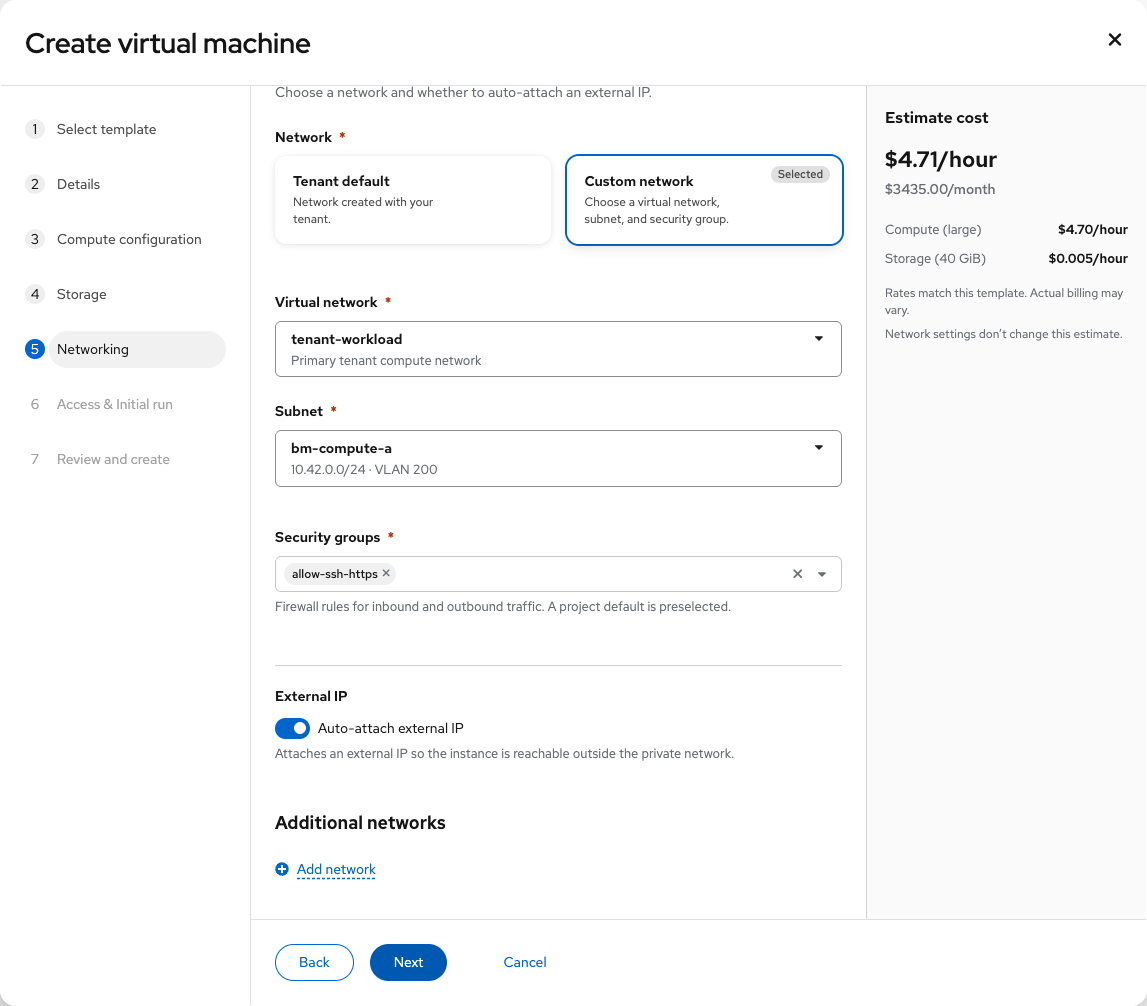
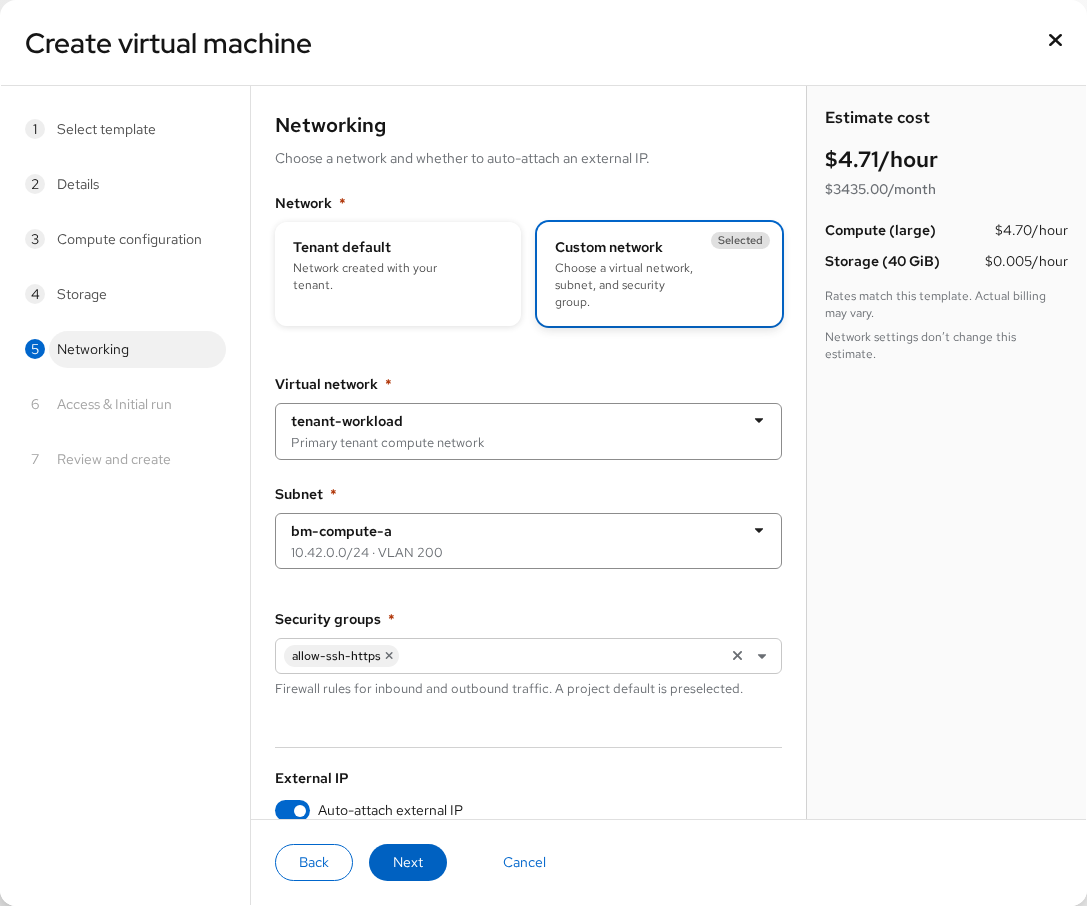
OSAC-5652: add VMaaS networking UI design addendum
Map the UX design to the osac-ui implementation: wizard networking
step, VM details entries, and a full ComputeInstance spec/status
field-mapping table. VM create errors show in the wizard footer;
post-create status visibility is out of scope and links to the
OSAC-6578 outcome work (OSAC-6008 PRD, OSAC-7158 PR, OSAC-7681
stepper).

Assisted-by: Claude Code <noreply@anthropic.com>

diff --git a/enhancements/OSAC-1435-vmaas-networking/ui-design.md b/enhancements/OSAC-1435-vmaas-networking/ui-design.md
@@ -1,0 +1,80 @@
+---
+title: vmaas-networking-ui
+authors:
+  - yfrimanm@redhat.com
+creation-date: 2026-11-19
+last-updated: 2026-11-19
+tracking-link:
+  - https://redhat.atlassian.net/browse/OSAC-5652
+  - https://redhat.atlassian.net/browse/OSAC-1435
+see-also:
+  - "/enhancements/OSAC-1435-vmaas-networking/ux-design.md"
+  - "/enhancements/OSAC-1435-vmaas-networking/prd.md"
+  - "/enhancements/OSAC-1435-vmaas-networking/design.md"
+replaces:
+superseded-by:
+---
+
+# VMaaS Networking — UI Design Addendum
+
+This addendum maps the [UX design](ux-design.md) to the `osac-ui`
+implementation. It changes no UX decisions; it records where each screen
+lives and which API field each UI item reads or writes. [OSAC-5652;
+OSAC-1435 design §UX Alignment]
+
+## 1. Create VM wizard — Networking step
+
+Implemented in the existing VM create wizard's Networking step:
+
+- **Tenant default / Custom network** choice, the summarized default
+  (VirtualNetwork, Subnet, SecurityGroups), and the Custom pickers follow
+  the UX design.
+- **Auto-attach external IP** default and the network choice come from the
+  catalog item the VM is launched from; when the catalog item locks the
+  field, the toggle is disabled and the field is omitted from the request.
+- The network selection is immutable after create; the UI offers no edit
+  and directs the user to replace the VM.
+
+## 2. VM details page
+
+- **External IP** renders the attached ExternalIP as a read-only value.
+- **Networking** renders the resolved network fields as read-only entries.
+
+## 3. Field mapping
+
+| UI item | Screen | API field | Direction |
+|---|---|---|---|
+| Tenant default / Custom network choice | Wizard, Networking step | `ComputeInstance.spec.network_attachments` presence (omitted = tenant default) | write |
+| VirtualNetwork picker | Wizard, Networking step | `ComputeInstance.spec.network_attachments[0].subnet` → owner VirtualNetwork | write |
+| Subnet picker (name + IPv4 CIDR) | Wizard, Networking step | `ComputeInstance.spec.network_attachments[0].subnet` | write |
+| SecurityGroups picker | Wizard, Networking step | `ComputeInstance.spec.network_attachments[0].security_groups` | write |
+| Auto-attach external IP toggle | Wizard, Networking step | `ComputeInstance.spec.auto_external_ip_attachment` | write |
+| Second network attachment | Wizard, Networking step | rejected by the CLI before sending (max one entry) | — |
+| External IP value | VM details | attached ExternalIP from `ExternalIPAttachments` / `ExternalIPs` | read |
+| Networking — VirtualNetwork | VM details | `ComputeInstance.status.compute_network_attachment_statuses[0].subnet_ref` → owner VirtualNetwork | read |
+| Networking — Subnet | VM details | `ComputeInstance.status.compute_network_attachment_statuses[0].subnet_ref` | read |
+| Networking — SecurityGroups | VM details | `ComputeInstance.spec.network_attachments[0].security_groups` (resolved) | read |
+| Networking — IP address | VM details | `ComputeInstance.status.internal_ip_address` | read |
+
+## 4. Errors on VM create
+
+An error returned by the VM create call is shown in the wizard footer.
+
+## 5. Out of scope
+
+Post-create status visibility — error handling and in-progress information
+such as network assignment and external IP attachment in progress or
+failed, and the VM Details provisioning stepper — is part of the VM status
+visibility outcome ([OSAC-6578](https://redhat.atlassian.net/browse/OSAC-6578))
+and is covered by:
+
+- [Expose ComputeInstance Provisioning Failures During Retries](/enhancements/OSAC-6008-expose-computeinstance-provisioning-failures/prd.md)
+  (Carlo Lobrano, [OSAC-6008](https://redhat.atlassian.net/browse/OSAC-6008))
+- [Open PR: Expose VM configuration operation status across UI, API, and CLI](https://github.com/osac-project/enhancement-proposals/pull/466)
+  ([OSAC-7158](https://redhat.atlassian.net/browse/OSAC-7158))
+- [Show VM provisioning progress and failures](https://redhat.atlassian.net/browse/OSAC-7681)
+  ([OSAC-7681](https://redhat.atlassian.net/browse/OSAC-7681)) — the VM
+  Details provisioning stepper
+
+No protobuf, endpoint, RBAC, or persistence changes. All data comes from
+the existing `ComputeInstances` create/get contract.

diff --git a/enhancements/OSAC-1435-vmaas-networking/ux-design.md b/enhancements/OSAC-1435-vmaas-networking/ux-design.md
@@ -3,7 +3,7 @@ title: vmaas-networking-ux
 authors:
   - yfrimanm@redhat.com
 creation-date: 2026-11-18
-last-updated: 2026-11-18
+last-updated: 2026-11-19
 tracking-link:
   - https://redhat.atlassian.net/browse/OSAC-5652
 see-also:
@@ -23,25 +23,19 @@ superseded-by:
 The Networking step offers **Tenant default** and **Custom network**. Tenant
 default summarizes virtual network, subnet, and security groups.
 
+![Create VM networking — tenant default](assets/01-create-default-network.png)
+
 The **Auto-attach external IP** toggle default and the network choice come
 from the catalog item the VM is launched from. When the catalog item locks
 `auto_external_ip_attachment` or `network_attachments`, the control is
 disabled and the field is left out of the request.
 
 Custom network lets the user choose a virtual network, subnet, and security
-groups; the auto-attach external IP control remains visible. A VM has exactly
-one network attachment and it cannot change after create, so there is no
-"Additional networks" option.
+groups. A VM has exactly one network attachment and it cannot change after create.
 
 ![Create VM networking — custom network](assets/02-create-custom-network.png)
 
-The Subnet picker shows each Subnet's name and IPv4 CIDR — there is no
-tenant-facing VLAN. Subnets that do not support VMs
-(`compute_instance_supported == false`) are disabled with their
-`compute_instance_unsupported_reason`. Tenant defaults are tenant-wide, not
-per-project, and the default SecurityGroup belongs only to the default
-VirtualNetwork, so nothing is preselected for another VirtualNetwork; an
-option is preselected only when exactly one option is listed.
+The Subnet picker shows each Subnet's name and IPv4 CIDR.
 
 ---
 
@@ -50,19 +44,8 @@ option is preselected only when exactly one option is listed.
 The details page shows two entries — the External IP and the Networking
 entry, whose three fields are the resolved network resources:
 
-- **External IP** — just text: the address as a plain read-only value,
-  configured at create time (via the Auto-attach toggle) and released when
-  the VM is deleted. It carries the standard help text *Reachable where
-  your provider routes it.* — an ExternalIP is external to the
-  VirtualNetwork, not necessarily Internet-routable, and SSH access depends
-  on the VM's SecurityGroups. The address appears once the attachment is
-  READY; a failure shows inline status text below the value.
+- **External IP** — A plain read-only value.
 - **Networking** — the resolved network fields as read-only entries:
   VirtualNetwork, Subnet, and Security Groups.
 
----
-
-## 3. Out of scope
-
-This handoff does not own Virtual networks list/create/detail (including its
-pagination), External IP inventory, or subnet/security-group administration.
+![VM details networking — read-only external IP and network](assets/03-vm-details-networking.png)
